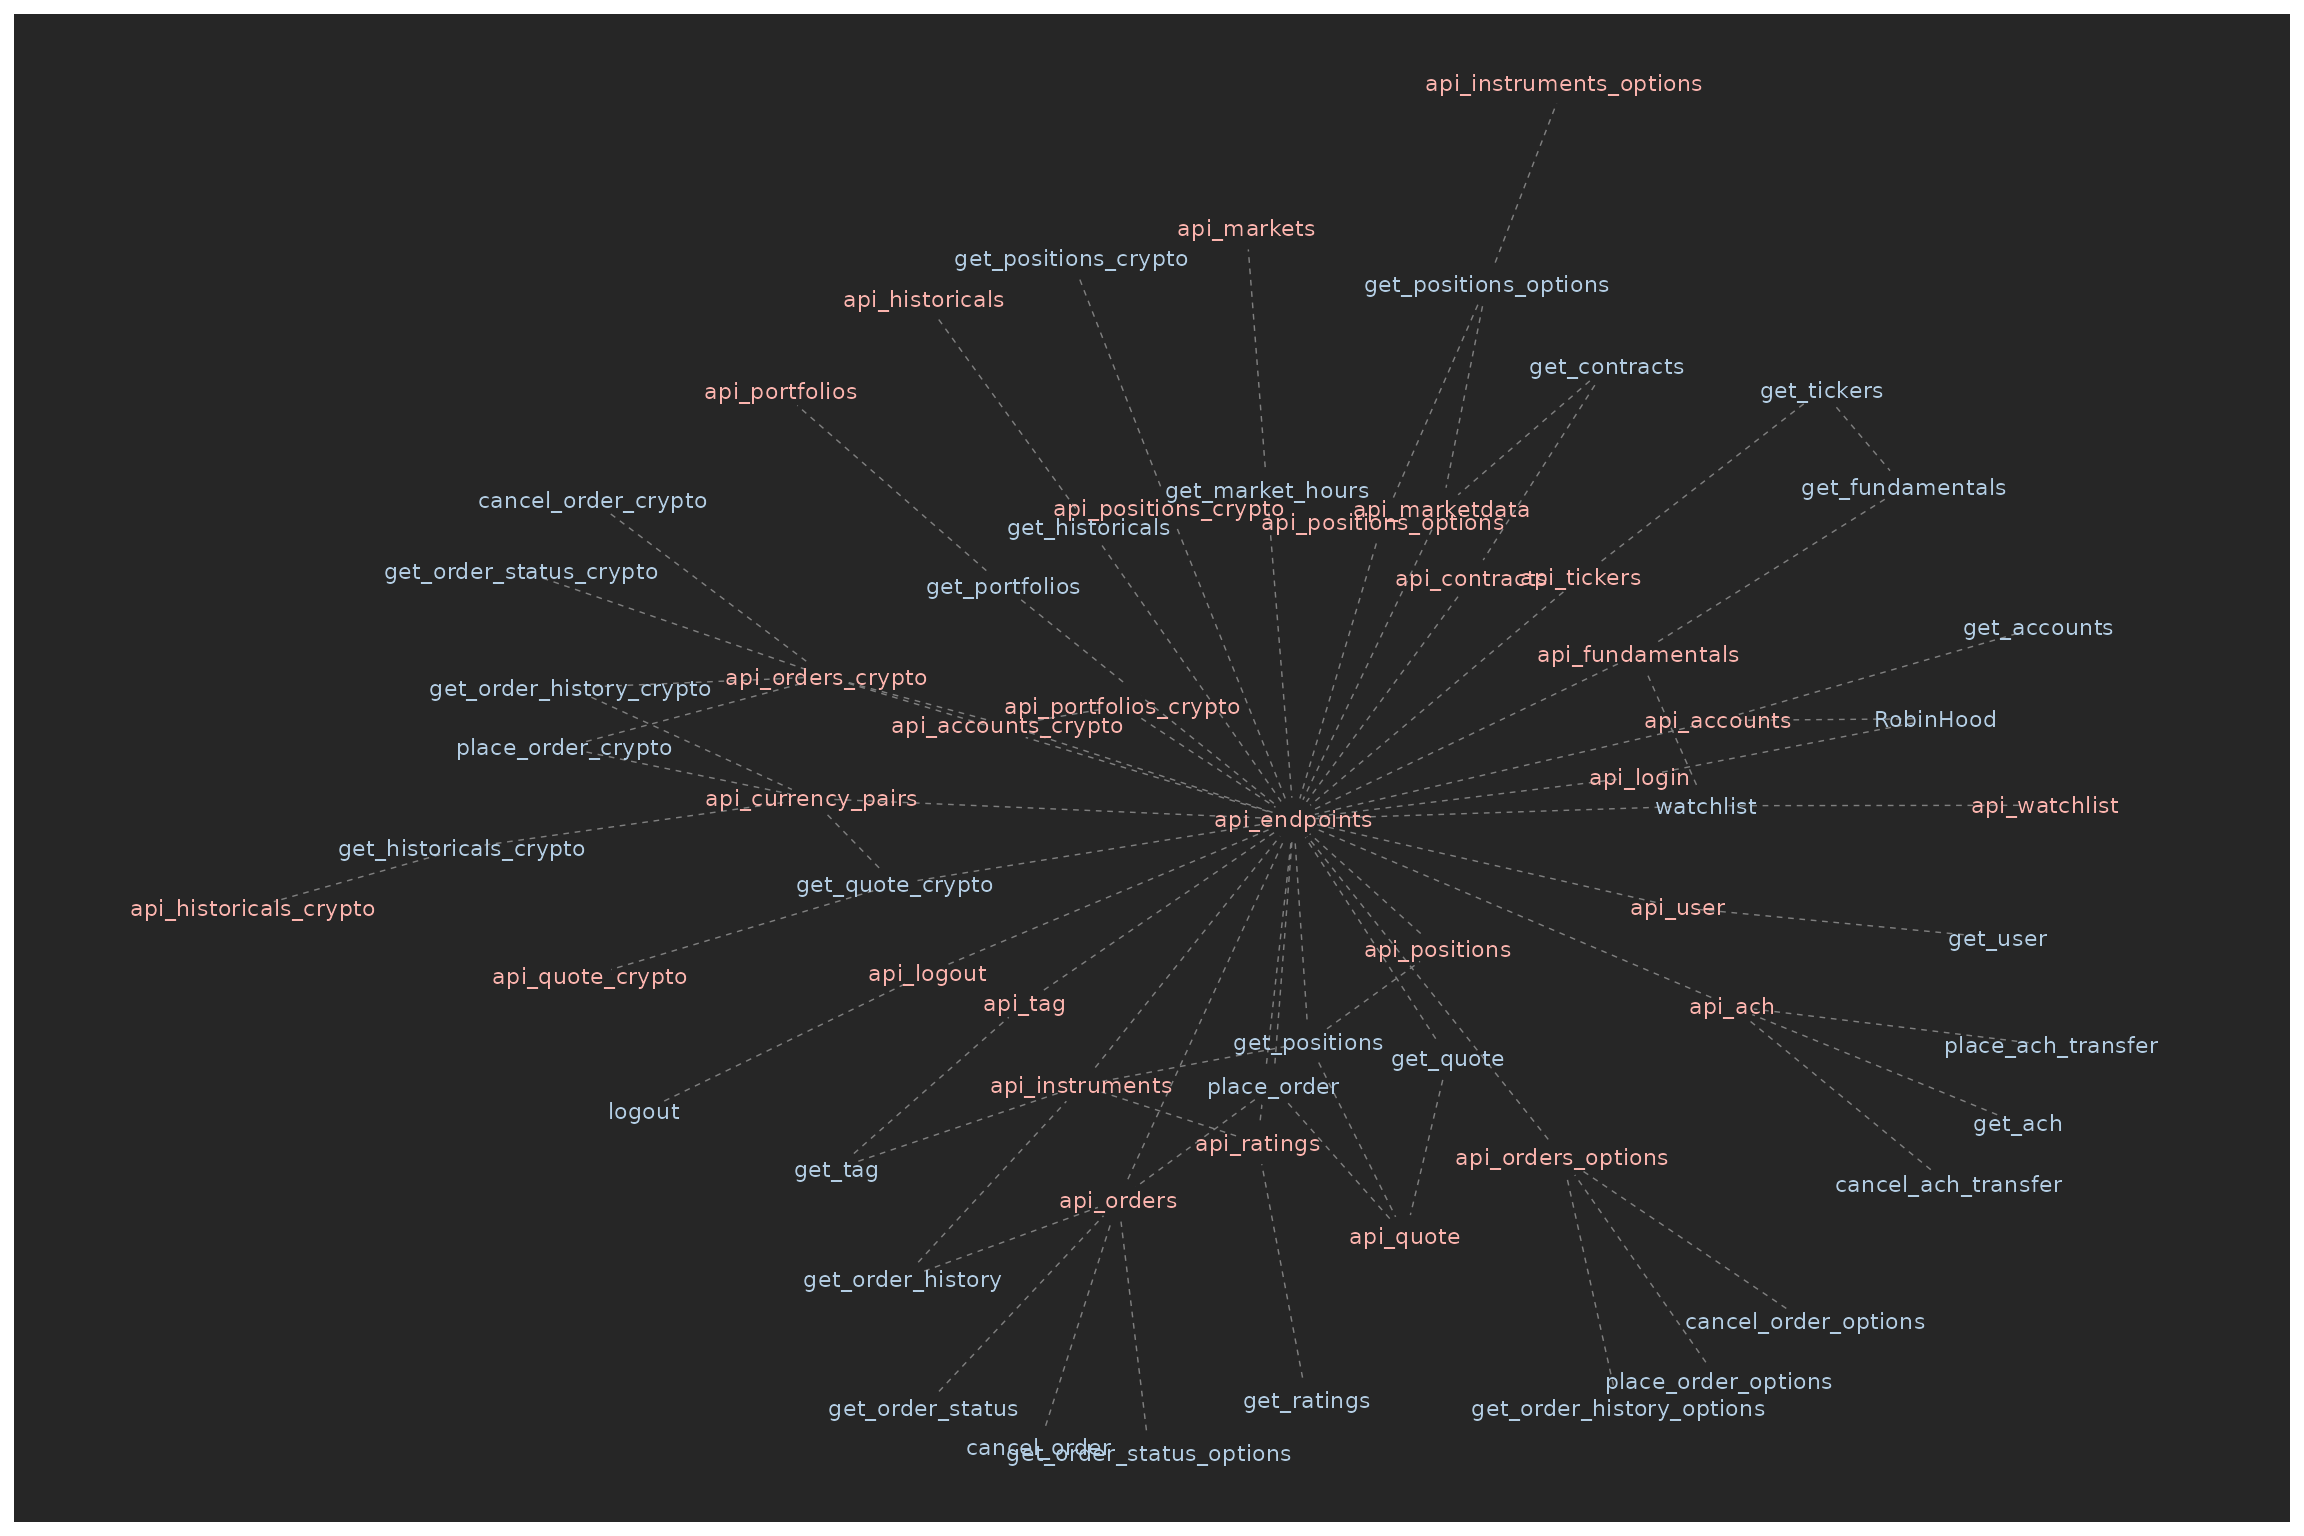
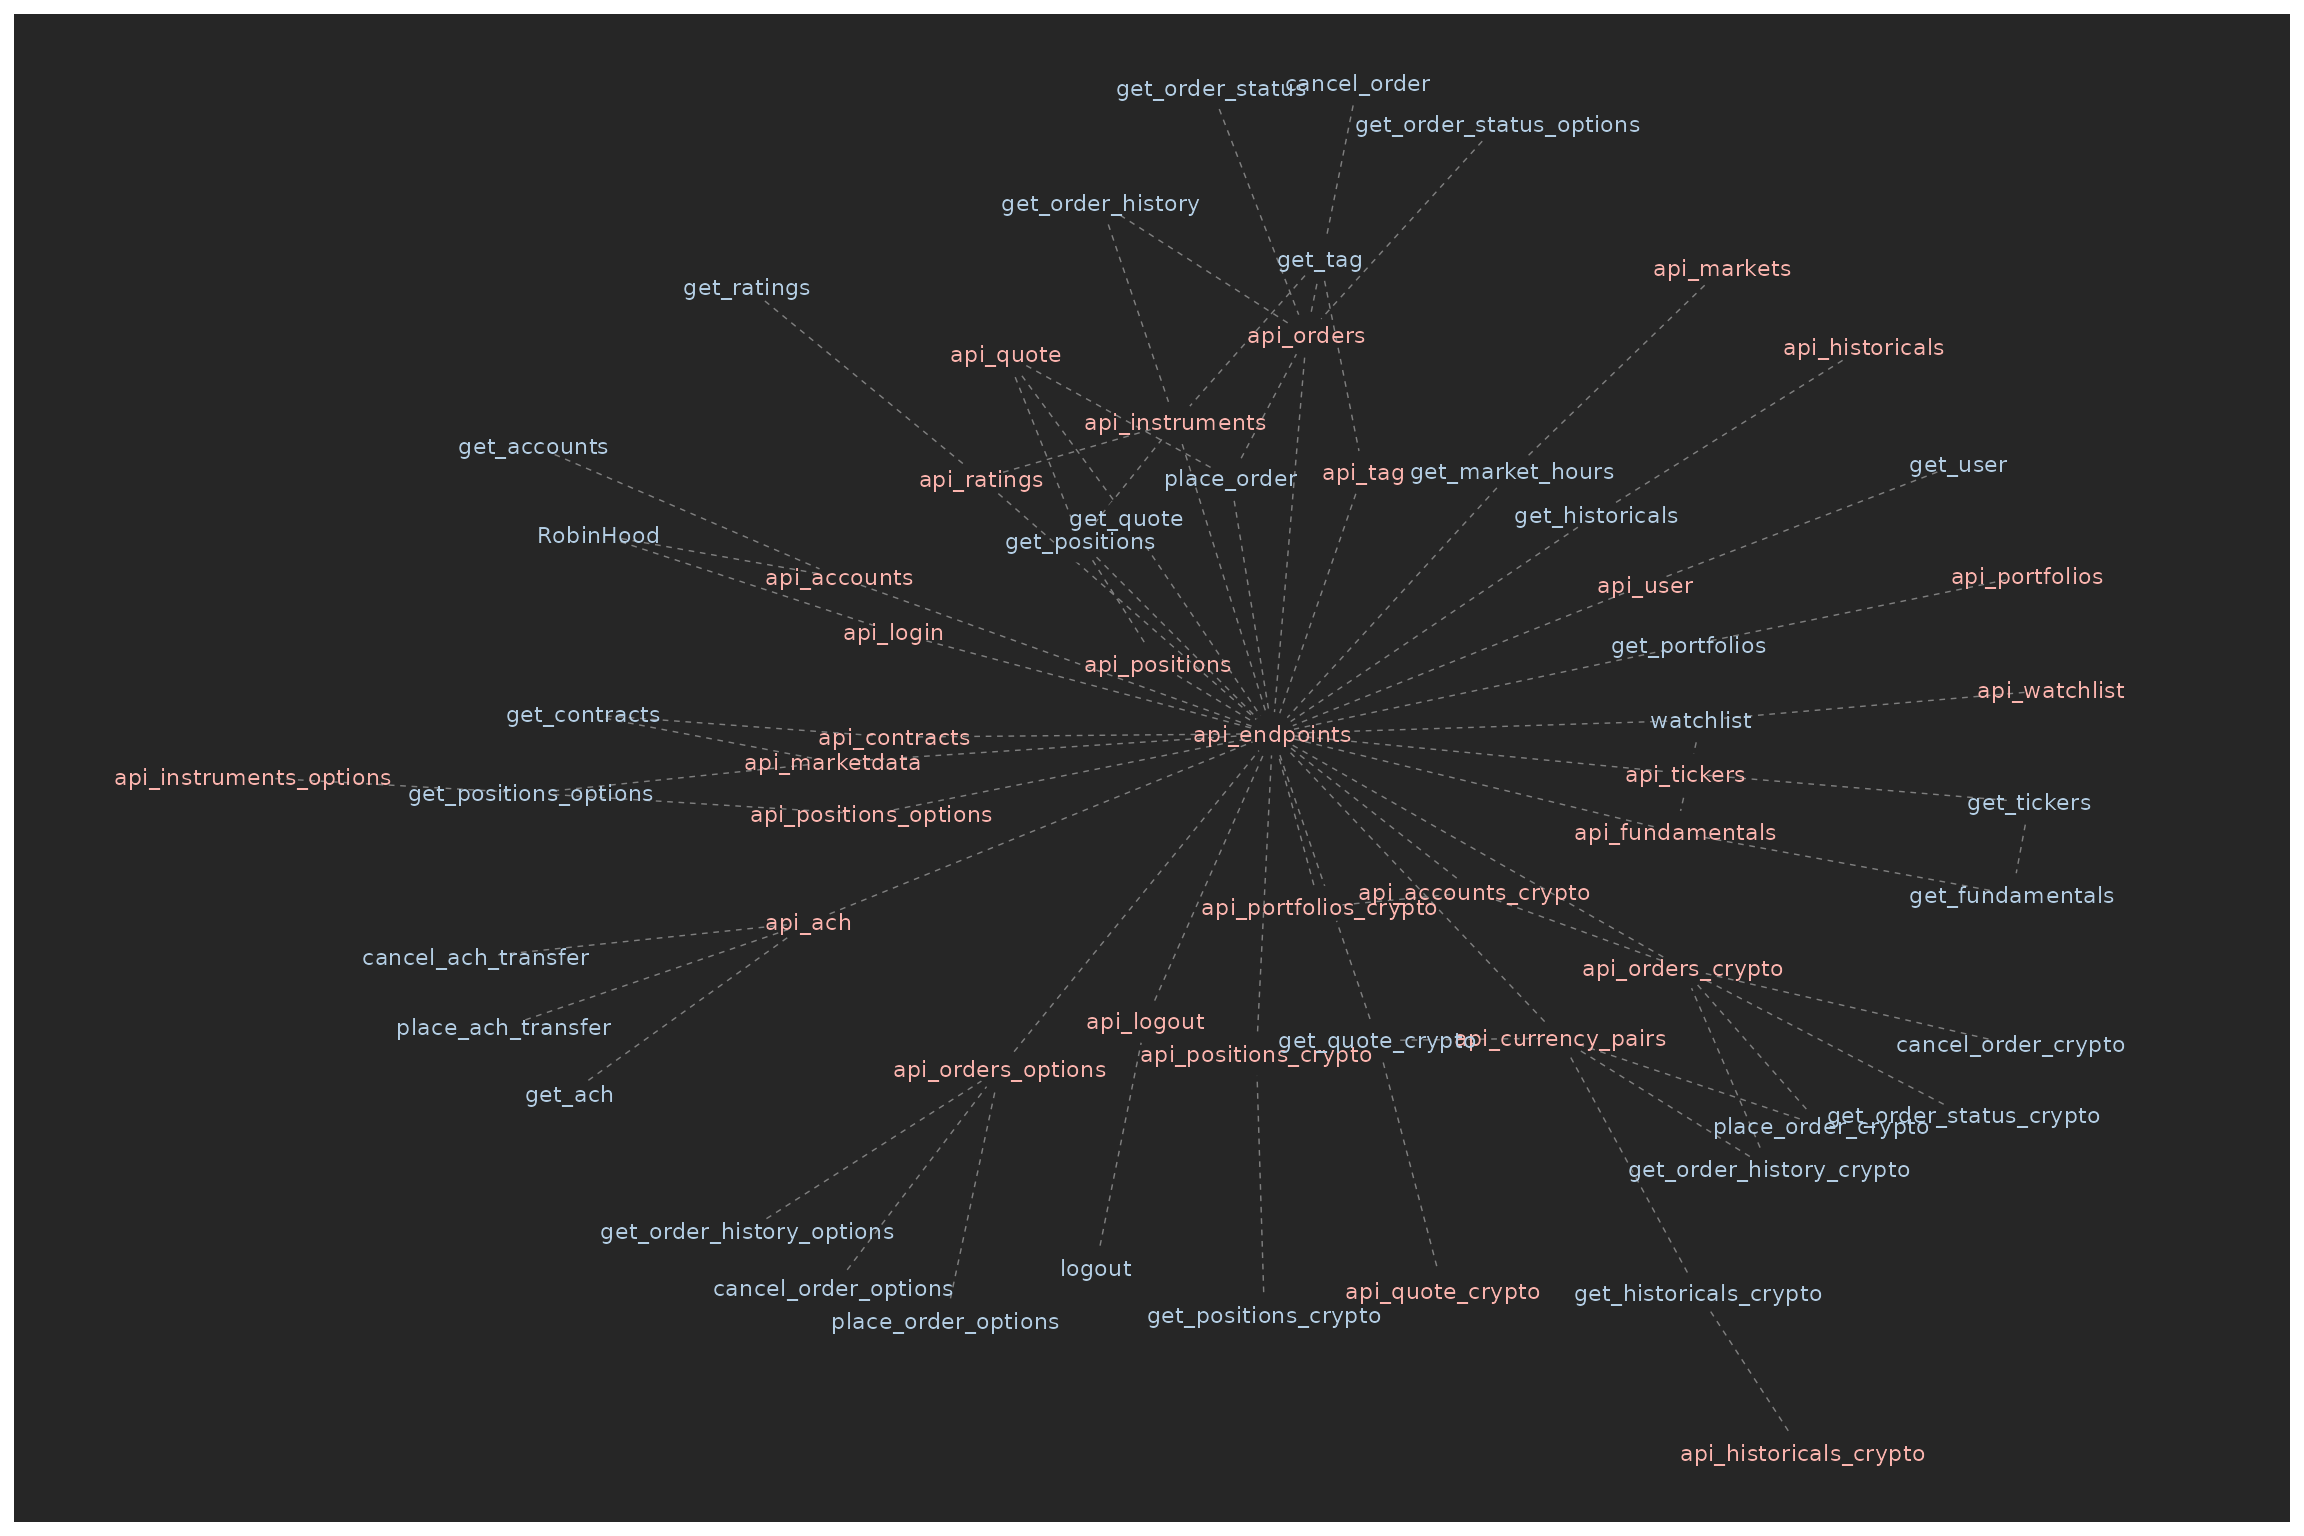
(GH-116) added no results message for `get_historicals_crypto()`

diff --git a/docs/reference/get_historicals_crypto.html b/docs/reference/get_historicals_crypto.html
@@ -40,7 +40,7 @@
 
 
 <meta property="og:title" content="Get historical crypto price history from RobinHood — get_historicals_crypto" />
-<meta property="og:description" content="Returns a data frame of historical crypto price history for a given symbol." />
+<meta property="og:description" content="Returns a data frame of historical crypto price history for a given symbol. Note that not all combinations of interval/span and bounds will return results. Spans that go beyond day (week, month, year) will not return results for certain bounds values (trading, extended). The function should return a message if you specify a combination of inputs that returns no results." />
 
 
 
@@ -135,7 +135,7 @@
     </div>
 
     <div class="ref-description">
-    <p>Returns a data frame of historical crypto price history for a given symbol.</p>
+    <p>Returns a data frame of historical crypto price history for a given symbol. Note that not all combinations of interval/span and bounds will return results. Spans that go beyond day (week, month, year) will not return results for certain bounds values (trading, extended). The function should return a message if you specify a combination of inputs that returns no results.</p>
     </div>
 
     <pre class="usage"><span class='fu'>get_historicals_crypto</span><span class='op'>(</span><span class='va'>RH</span>, <span class='va'>symbol</span>, <span class='va'>interval</span>, <span class='va'>span</span>, <span class='va'>bounds</span>, tz <span class='op'>=</span> <span class='fu'><a href='https://rdrr.io/r/base/timezones.html'>Sys.timezone</a></span><span class='op'>(</span><span class='op'>)</span><span class='op'>)</span></pre>
@@ -175,8 +175,10 @@
 <span class='co'># Login in to your RobinHood account</span>
 <span class='va'>RH</span> <span class='op'>&lt;-</span> <span class='fu'><a href='RobinHood.html'>RobinHood</a></span><span class='op'>(</span><span class='st'>"username"</span>, <span class='st'>"password"</span><span class='op'>)</span>
 
-<span class='fu'>get_historicals_crypto</span><span class='op'>(</span>RH <span class='op'>=</span> <span class='va'>RH</span>, symbol <span class='op'>=</span> <span class='st'>"ETC"</span>, interval <span class='op'>=</span> <span class='st'>"day"</span>, bounds <span class='op'>=</span> <span class='st'>"extended"</span>,
-                       span <span class='op'>=</span> <span class='st'>"month"</span><span class='op'>)</span>
+<span class='fu'>get_historicals_crypto</span><span class='op'>(</span><span class='va'>RH</span>, symbol <span class='op'>=</span> <span class='st'>"ETC"</span>, interval <span class='op'>=</span> <span class='st'>"5minute"</span>, span <span class='op'>=</span> <span class='st'>"day"</span>, bounds <span class='op'>=</span> <span class='st'>'regular'</span><span class='op'>)</span>
+<span class='fu'>get_historicals_crypto</span><span class='op'>(</span><span class='va'>RH</span>, symbol <span class='op'>=</span> <span class='st'>"ETC"</span>, interval <span class='op'>=</span> <span class='st'>"5minute"</span>, span <span class='op'>=</span> <span class='st'>"day"</span>, bounds <span class='op'>=</span> <span class='st'>'trading'</span><span class='op'>)</span>
+<span class='fu'>get_historicals_crypto</span><span class='op'>(</span><span class='va'>RH</span>, symbol <span class='op'>=</span> <span class='st'>"ETC"</span>, interval <span class='op'>=</span> <span class='st'>"5minute"</span>, span <span class='op'>=</span> <span class='st'>"day"</span>, bounds <span class='op'>=</span> <span class='st'>'extended'</span><span class='op'>)</span>
+<span class='fu'>get_historicals_crypto</span><span class='op'>(</span><span class='va'>RH</span>, symbol <span class='op'>=</span> <span class='st'>"ETC"</span>, interval <span class='op'>=</span> <span class='st'>"5minute"</span>, span <span class='op'>=</span> <span class='st'>"day"</span>, bounds <span class='op'>=</span> <span class='st'>'24_7'</span><span class='op'>)</span>
 
 <span class='op'>}</span>
 </div></pre>

diff --git a/docs/news/index.html b/docs/news/index.html
@@ -144,6 +144,8 @@
 <a href="https://github.com/JestonBlu/RobinHood/issues/74">(GH-74)</a> <code><a href="../reference/get_ratings.html">get_ratings()</a></code>: returns analyst rating and comments for a particular instrument</li>
 <li>
 <a href="https://github.com/JestonBlu/RobinHood/issues/117">(GH-117)</a> <code><a href="../reference/get_positions_crypto.html">get_positions_crypto()</a></code>: added average_price field</li>
+<li>
+<a href="https://github.com/JestonBlu/RobinHood/issues/116">(GH-116)</a> New function <code><a href="../reference/get_historicals_crypto.html">get_historicals_crypto()</a></code> (<a href='https://github.com/jgQuantScripts'>@jgQuantScripts</a>)</li>
 </ul>
 </div>
 <div id="bug-fixes" class="section level2">
@@ -170,6 +172,7 @@
 <a href="https://github.com/JestonBlu/RobinHood/issues/101">(GH-101)</a> <code><a href="../reference/place_order.html">place_order()</a></code>: no longer prevents you from trading fractional shares</li>
 <li>
 <a href="https://github.com/JestonBlu/RobinHood/issues/114">(GH-114)</a> <code><a href="../reference/get_positions_crypto.html">get_positions_crypto()</a></code> swapped out <code>average_price</code> for <code>mark_price</code>, eliminating rounding errors</li>
+<li>Fixed various documentation typos</li>
 </ul>
 </div>
 <div id="documentation" class="section level2">

diff --git a/docs/articles/network_graph.html b/docs/articles/network_graph.html
@@ -110,15 +110,15 @@
 </ul>
 <p>The following force directed graphs display <strong>core</strong> and <strong>API</strong> functions in order to show the dependencies across functions. This might be helpful if you are wanting to understand the overall organization of the package and understand how the <strong>API</strong> functions support the <strong>core</strong> functions.</p>
 <p>For those curious how I made these plots I used the <a href="https://briatte.github.io/ggnet/">ggnet2</a> package.</p>
-<div id="full-network" class="section level2">
-<h2 class="hasAnchor">
-<a href="#full-network" class="anchor"></a>Full Network</h2>
-<p><img src="network_graph_files/figure-html/complete_network-1.png" width="1152"></p>
-</div>
 <div id="simplified-network-with-endpoints-connection-removed" class="section level2">
 <h2 class="hasAnchor">
 <a href="#simplified-network-with-endpoints-connection-removed" class="anchor"></a>Simplified Network with Endpoints Connection Removed</h2>
 <p><img src="network_graph_files/figure-html/simplified_network-1.png" width="1152"></p>
+</div>
+<div id="full-network" class="section level2">
+<h2 class="hasAnchor">
+<a href="#full-network" class="anchor"></a>Full Network</h2>
+<p><img src="network_graph_files/figure-html/complete_network-1.png" width="1152"></p>
 </div>
   </div>
 
